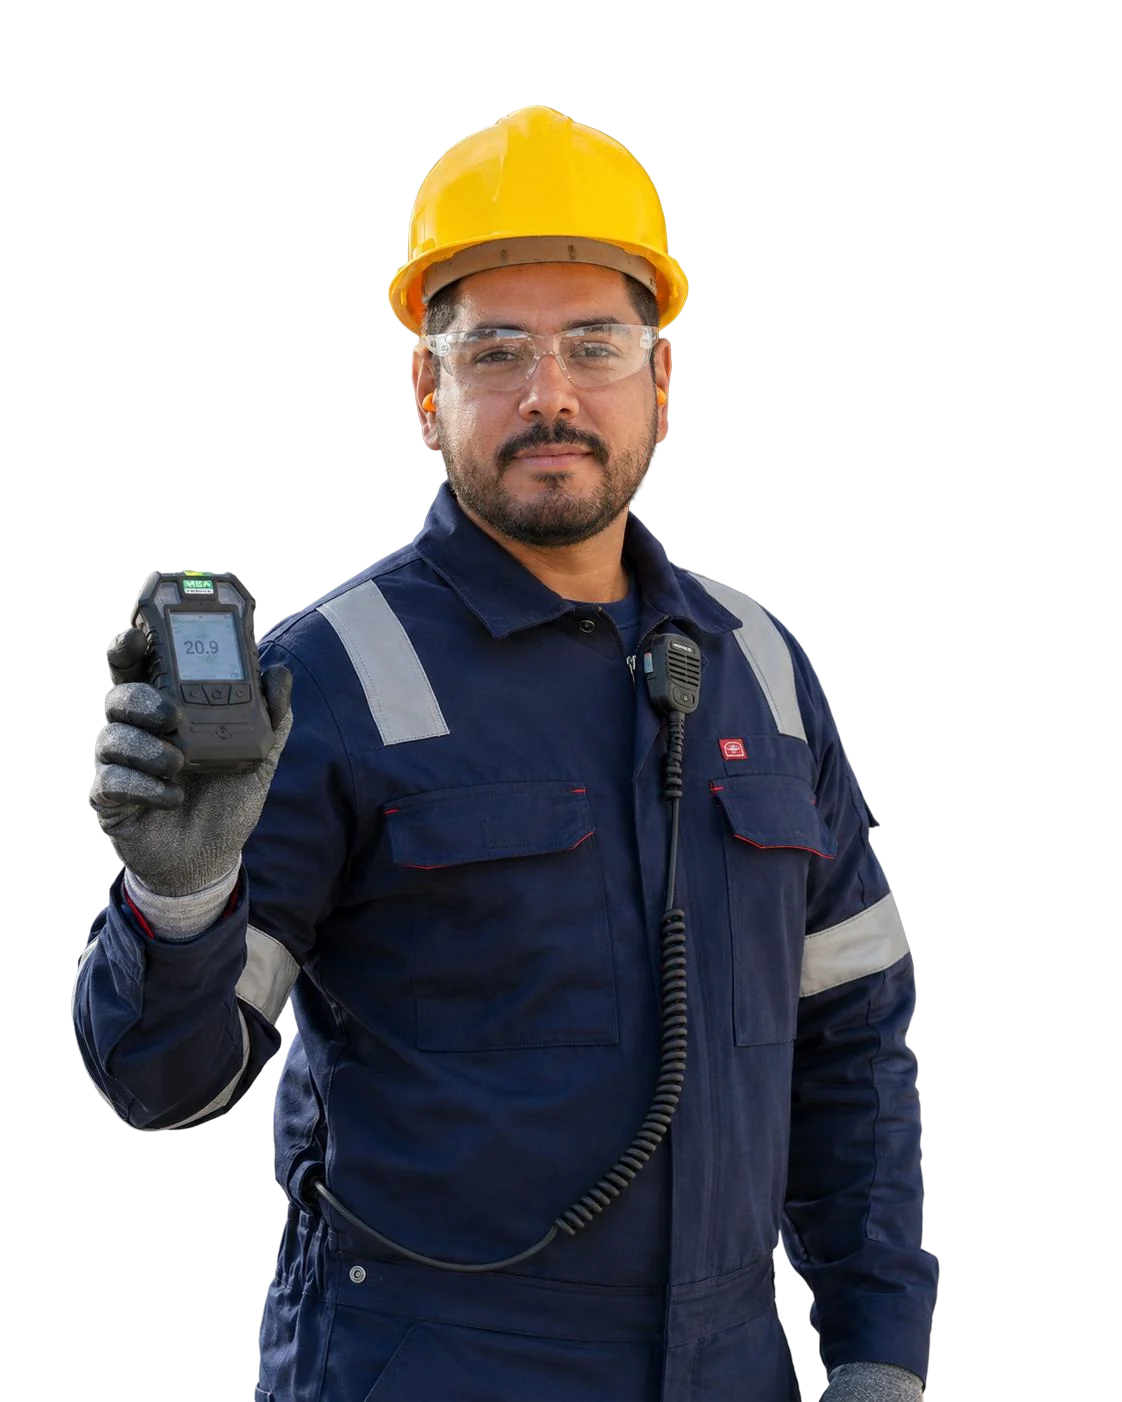
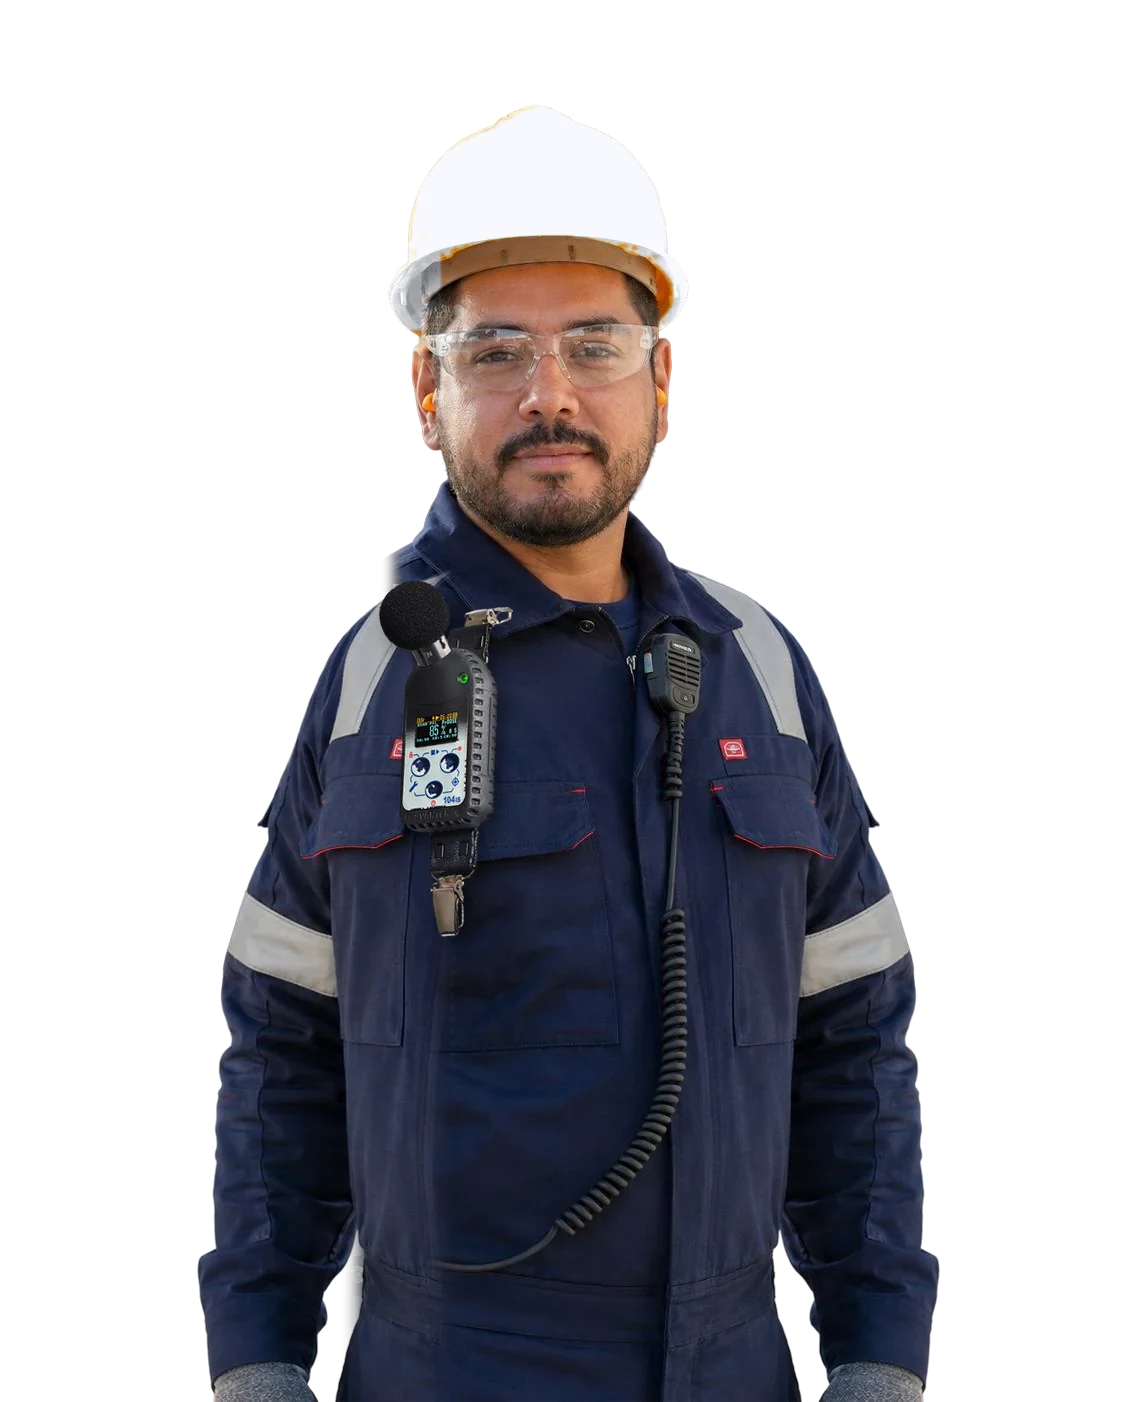
Refaz imagem da seção de indicação técnica
Capacete recolorido para branco (não some no fundo amarelo), braço
com o equipamento antigo removido e SV 104 BIS clipado na lapela,
conforme referência enviada pelo cliente.

Claude-Session: https://claude.ai/code/session_01U1JUNqCaokKsr1QVRfedx7

Changed region(s): [[0.0624, 0.3987, 0.4679, 1.0], [0.3431, 0.0613, 0.6239, 0.2454]]

diff --git a/index.html b/index.html
@@ -212,7 +212,7 @@
           </div>
         </div>
 
-        <!-- TROCAR: nova foto do especialista (ver README) -->
+        <!-- Especialista com capacete branco e SV 104 BIS na lapela -->
         <img class="indicacao__person reveal" data-anim="fade-up" style="--d:.15s" src="assets/img/especialista.webp" alt="Especialista da CEM" loading="lazy" width="1122" height="1402">
 
         <form class="form reveal" data-anim="fade-left" style="--d:.1s" id="form-indicacao" novalidate>

diff --git a/assets/css/style.css b/assets/css/style.css
@@ -355,7 +355,7 @@ a { color: inherit; }
 .indicacao__person {
   position: absolute;
   z-index: 1;
-  left: 316px;
+  left: 262px;
   bottom: 0;
   width: 585px;
   height: auto;

diff --git a/README.md b/README.md
@@ -24,7 +24,7 @@ Para visualizar, basta abrir `index.html` no navegador ou publicar a pasta em qu
 | 4 · Calibração | OK | ✅ |
 | 5 · FAQ | OK | ✅ |
 | 6 · Indicação técnica | Texto → **"Nós analisamos sua aplicação e te indicamos o instrumento adequado"** | ✅ |
-| 6 · Indicação técnica | Nova foto (capacete não amarelo, com 104 BIS na lapela ou SV 971A na mão) | ⏳ aguardando imagem |
+| 6 · Indicação técnica | Nova foto: capacete branco e SV 104 BIS na lapela (sem equipamento na mão) | ✅ |
 
 ### Como trocar as imagens pendentes
 
@@ -34,7 +34,6 @@ As imagens das pastas do Google Drive citadas no documento de ajustes não estav
 |---|---|---|
 | `assets/img/hero-bg.webp` | Fundo do hero (pessoa + equipamentos à direita) | 1920×960 ou maior, área da esquerda livre para o texto |
 | `assets/img/decibelimetro.webp` | Card "Decibelímetro" (SV 971A) | fundo branco, ~700×560 |
-| `assets/img/especialista.webp` | Pessoa da seção do formulário | PNG/WebP com fundo transparente, ~1100×1400 |
 
 ## Animações
 
